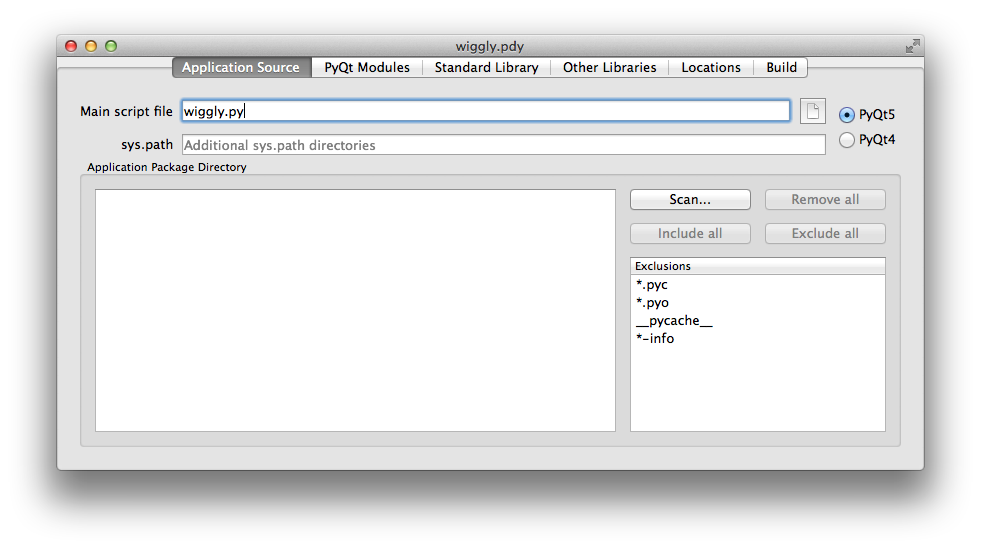
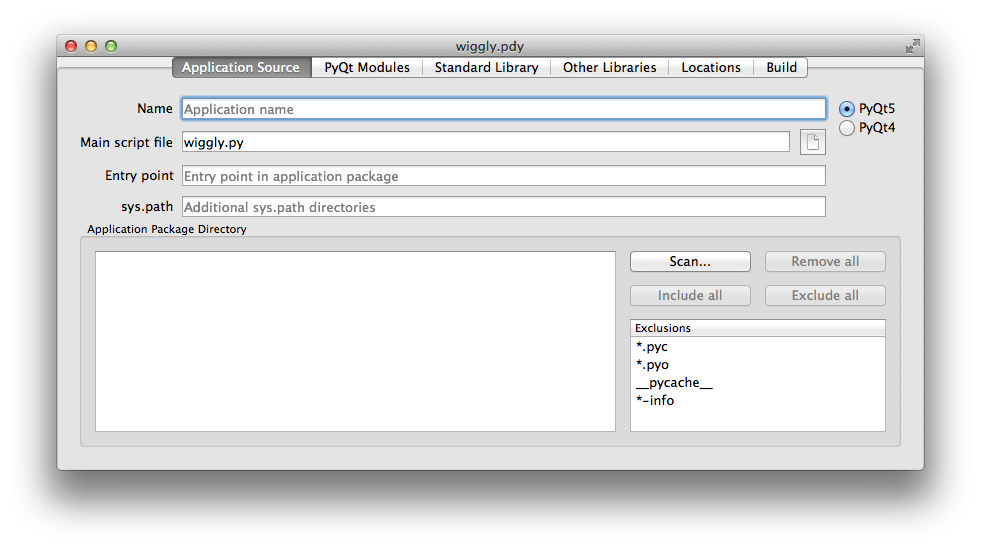
Updated the docs to cover entry points and core extension modules.

Changed region(s): [[0.0612, 0.1548, 0.9174, 0.7432]]

diff --git a/doc/tutorial.rst b/doc/tutorial.rst
@@ -28,16 +28,37 @@ packages and sub-packages that is typical of a larger application.
 Defining the Application Source
 -------------------------------
 
+Python applications are usually structured in one of the following ways:
+
+- a single standalone executable script that is installed in a ``bin``
+  directory somewhere
+
+- a package installed in ``site-packages`` with a separate executable script
+  installed in a ``bin`` directory
+
+- a package installed in ``site-packages`` with a separate executable script
+  that is automatically generated by :mod:`setuptools`.  The script calls an
+  *entry point* in the package.  An *entry point* is the name of a module in
+  the package and the name of a callable within the module separated by a
+  ``:``.
+
+:program:`pyqtdeploy` itself uses the :mod:`setuptools` based structure.
+
 The tab for defining the application source is shown below.
 
 .. image:: /images/application_source_tab.png
     :align: center
 
+**Name**
+    is used to specify the name of the final application executable.  If it is
+    not specified then it is derived from the name of the main script file.  If
+    the application does not have a main script file then the name is derived
+    from the name of the application package.
+
 **Main script file**
-    is used to specify the name of the main Python script of the application
-    (actually the only Python script in this example).  The final deployable
-    application will have the same name as this script (with the extension
-    removed).
+    is used to specify the name of the executable Python script used to invoke
+    the application.  It should not be specified if an entry point is
+    specified.
 
     .. note::
         Whenever a file or directory is specified, :program:`pyqtdeploy` always
@@ -47,6 +68,11 @@ The tab for defining the application source is shown below.
         a file or directory name is entered, :program:`pyqtdeploy` allows the
         embedding of environment variables which will be expanded when
         necessary.
+
+**Entry Point**
+    is used to specify the entry point of a :mod:`setuptools`-based
+    application.  It should not be specified if a main script file is
+    specified.
 
 **sys.path**
     is used to specify additional directories that will be added to
@@ -196,6 +222,10 @@ to specify the location of the library's header files in the ``INCLUDEPATH``
 field and add a ``-L`` flag to the ``LIBS`` field if the library is not
 installed in locations that will be found automatically by the compiler and
 linker.
+
+Note that some extension modules are shown as checked and are disabled (e.g.
+:mod:`atexit`).  These correspond to those extension modules that are always
+compiled in with the Python interpreter library.
 
 
 Defining Additional Packages
